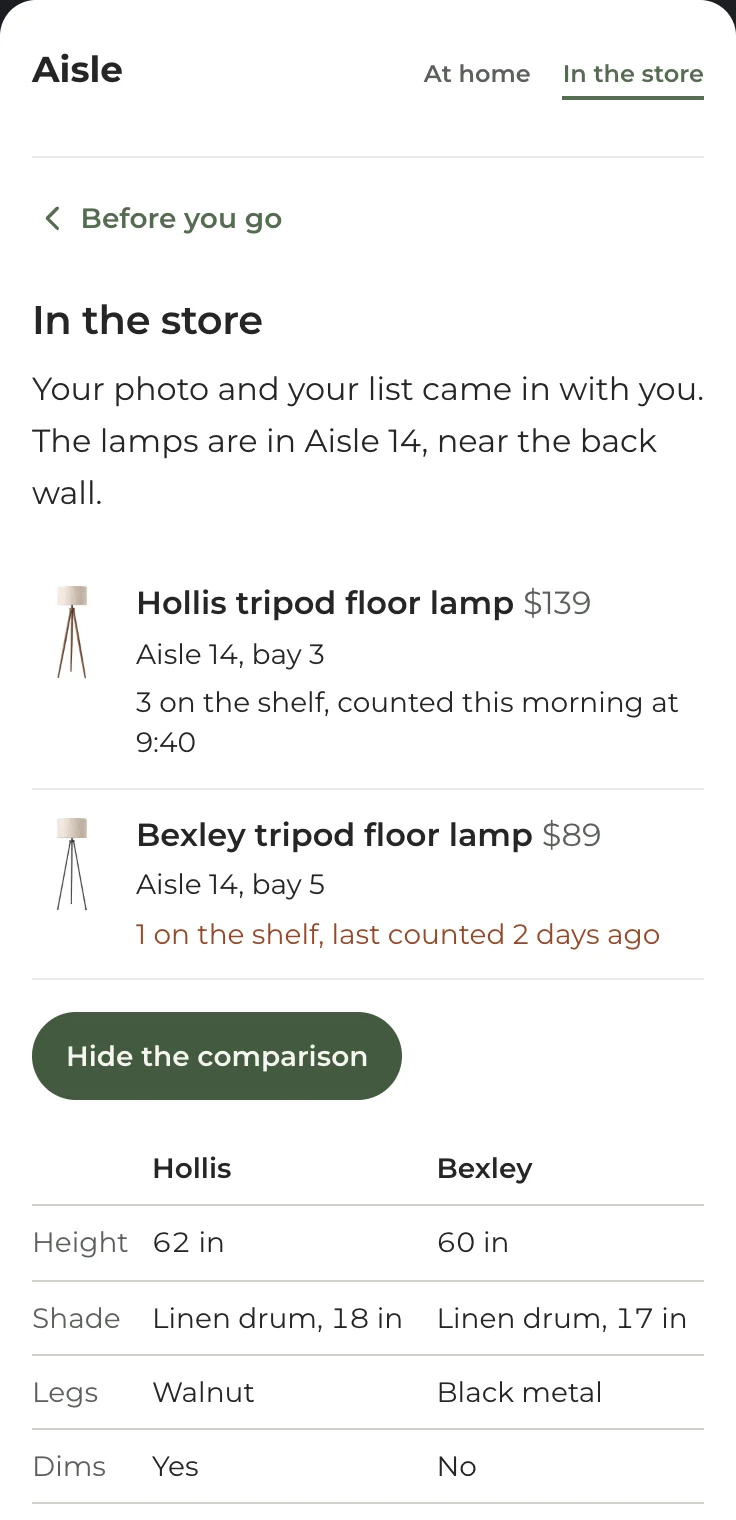
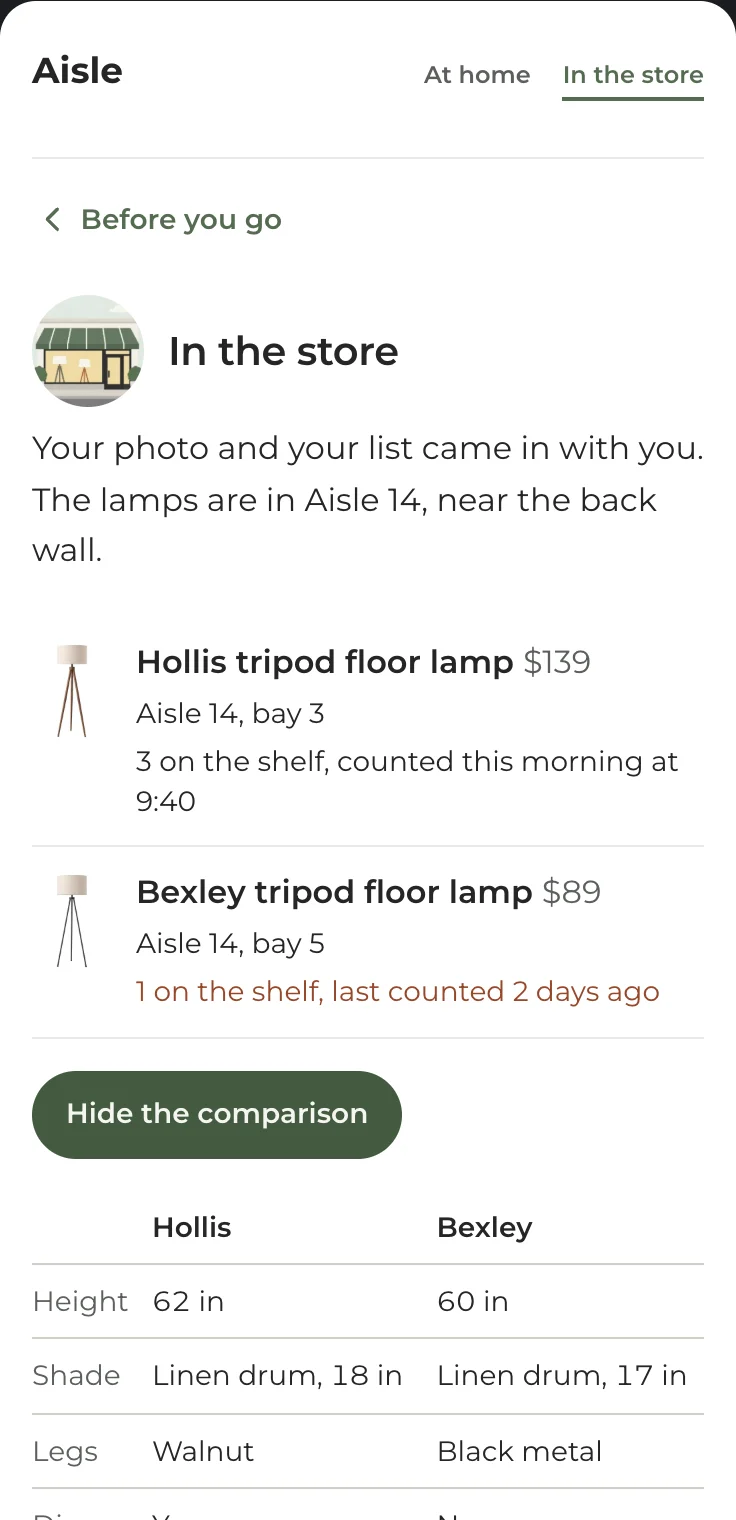
From Inspiration to Aisle: the prototype's two places carry a picture of the place. "At your friend's house" and "In the store" each open on a small drawing cut to a circle beside the title: a house at dusk with the lamp in its window, and a storefront with lamps in its window. Bold flat shapes, dra

diff --git a/prototype/aisle.js b/prototype/aisle.js
@@ -101,6 +101,15 @@
     return '<img class="ai-art" src="../img/lab/' + art + '?v=1" width="240" height="300" decoding="async" alt="">';
   }
 
+  /* ---------- the title's badge ----------
+     A small drawing in a circle beside the title on the two screens that
+     are a place: the friend's house and the store. Drawn in ChatGPT as one
+     sheet and cut by scripts/aisle-badges.mjs; alt="", the title is the text. */
+  function titled(kind, title) {
+    return '<div class="ai-head-row"><img class="ai-badge" src="../img/lab/aisle-badge-' + kind + '.webp?v=1" width="192" height="192" decoding="async" alt="">' +
+      '<h3 class="ai-title" tabindex="-1">' + title + '</h3></div>';
+  }
+
   /* ---------- small helpers ---------- */
 
   function dollars(n) { return '$' + n; }
@@ -124,7 +133,7 @@
   var screens = {};
 
   screens.home = function () {
-    return '<header class="ai-head">' + '<h3 class="ai-title" tabindex="-1">At your friend’s house</h3>' +
+    return '<header class="ai-head">' + titled('house', 'At your friend’s house') +
       '<p class="ai-dek">You like her lamp. Take a picture before you forget it.</p></header>' +
       '<figure class="ai-photo">' +
         '<div class="ai-photo-frame"><img class="ai-photo-img" src="../img/lab/aisle-maya-photo.webp?v=1" width="1200" height="900" decoding="async" alt="The lamp in your friend’s living room, lit, between a side table and the sofa."></div>' +
@@ -193,7 +202,7 @@
   screens.store = function () {
     var saved = savedLamps();
     var s = back('plan', 'Before you go') +
-      '<header class="ai-head"><h3 class="ai-title" tabindex="-1">In the store</h3>' +
+      '<header class="ai-head">' + titled('store', 'In the store') +
       '<p class="ai-dek">Your photo and your list came in with you. The lamps are in Aisle 14, near the back wall.</p></header>' +
       '<ul class="ai-saved">';
     saved.forEach(function (l) {

diff --git a/lab/inspiration-to-aisle.html b/lab/inspiration-to-aisle.html
@@ -223,7 +223,7 @@
         </div>
         <figure class="ia-hero-art">
         <figure class="ia-hero-art">
-          <div class="build-phone"><img src="../img/lab/aisle-arrive.webp?v=3" width="736" height="1124" fetchpriority="high" decoding="async"
+          <div class="build-phone"><img src="../img/lab/aisle-arrive.webp?v=4" width="736" height="1182" fetchpriority="high" decoding="async"
                alt="The prototype's In the store screen: your photo and your list came in with you, the lamps are in Aisle 14. The two saved lamps with their bays and shelf counts, one counted this morning and one last counted 2 days ago in the caution ink, and a button to compare them side by side." /></div>
         </figure>
       </div>
@@ -387,7 +387,7 @@
             <figcaption><strong>Before the trip.</strong> The counts, with their age.</figcaption>
           </figure>
           <figure>
-            <div class="build-phone"><img src="../img/lab/aisle-store.webp?v=3" width="736" height="1520" loading="lazy" decoding="async" alt="The In the store screen: the two saved lamps with their bays, a side-by-side comparison data table of height, shade, legs, dimming, bulb, price, and where, and two buttons: I don't see the Bexley, and Ask someone in Home." /></div>
+            <div class="build-phone"><img src="../img/lab/aisle-store.webp?v=4" width="736" height="1520" loading="lazy" decoding="async" alt="The In the store screen: the two saved lamps with their bays, a side-by-side comparison data table of height, shade, legs, dimming, bulb, price, and where, and two buttons: I don't see the Bexley, and Ask someone in Home." /></div>
             <figcaption><strong>In the aisle.</strong> The comparison, and a person one press away.</figcaption>
           </figure>
         </div>

diff --git a/prototype/aisle.html b/prototype/aisle.html
@@ -101,7 +101,7 @@
   <link rel="stylesheet" href="../site-nav.css?v=20261026a" />
   <link rel="stylesheet" href="../read-aloud.css?v=7" />
   <link rel="stylesheet" href="../related.css?v=2" />
-  <link rel="stylesheet" href="aisle.css?v=3" />
+  <link rel="stylesheet" href="aisle.css?v=4" />
   <script src="../site-nav.js?v=20260906a" defer></script>
   <!-- "Listen to this page" reads the writing around the prototype and not
        the prototype: the phone is marked data-read-aloud="skip", because its
@@ -110,7 +110,7 @@
   <script src="../read-aloud.js?v=4" defer></script>
   <!-- The prototype. Deferred, no dependencies, no build step; the lamps,
        the store and the counts are the objects at the top of the file. -->
-  <script src="aisle.js?v=4" defer></script>
+  <script src="aisle.js?v=5" defer></script>
   <!-- The header logo plays a one-shot reveal clip on load and fades out
        over the static mark as it finishes. The class is set here, before
        first paint, so the static mark never flashes ahead of the animation;

diff --git a/lab/index.html b/lab/index.html
@@ -300,7 +300,7 @@
                says so in its dek, as the page does in its first screen. -->
           <li class="writing-item">
             <a class="writing-link" href="inspiration-to-aisle.html">
-              <img class="writing-card" src="../img/lab/aisle-card.webp?v=5" width="1600" height="900" alt="" decoding="async" />
+              <img class="writing-card" src="../img/lab/aisle-card.webp?v=6" width="1600" height="900" alt="" decoding="async" />
               <div class="writing-text">
                 <h3 class="writing-title">From Inspiration to Aisle: one shopping trip, carried across phone, store, and person</h3>
                 <p class="writing-dek">A photo of a friend&rsquo;s lamp, four matches that say why, and a trip into a store with the context intact. An independent concept on sample data, not tested with shoppers yet.</p>

diff --git a/prototype/aisle.css b/prototype/aisle.css
@@ -130,6 +130,18 @@
    class-and-element and would otherwise set the app's lines at --text-lg
    on reading leading (the lesson dispatch-cockpit.css records). */
 .ai-app .ai-head { margin-bottom: var(--space-lg); }
+.ai-app .ai-head-row { display: flex; align-items: center; gap: var(--space-sm); margin-bottom: var(--space-xs); }
+.ai-app .ai-head-row .ai-title { margin: 0; }
+/* The badge is the place's drawing cut to a circle; 3.5rem is two 24px
+   lines of the title, so it sits level with a title that wraps. */
+.ai-app .ai-badge {
+  flex: none;
+  display: block;
+  width: 3.5rem;
+  height: 3.5rem;
+  border-radius: 50%;
+  object-fit: cover;
+}
 .ai-app .ai-title {
   margin: 0 0 var(--space-xs);
   font-family: var(--font-sans);

diff --git a/index.html b/index.html
@@ -999,7 +999,7 @@
                friend's and in the store, legible at half the section. -->
           <div class="case-card case-card--lab reveal">
             <a class="case-thumb case-thumb--ringed" href="lab/inspiration-to-aisle.html" aria-label="Read the Inspiration to Aisle case study: one shopping trip, from a friend&rsquo;s lamp to the store aisle">
-              <img decoding="async" loading="lazy" src="img/lab/aisle-card.webp?v=5" alt="" width="1600" height="900"/>
+              <img decoding="async" loading="lazy" src="img/lab/aisle-card.webp?v=6" alt="" width="1600" height="900"/>
             </a>
             <div class="case-card-body">
               <h3>One shopping trip, carried from a phone into the store.</h3>

diff --git a/case-study/this-site.html b/case-study/this-site.html
@@ -224,7 +224,7 @@
           <dl class="glance-facts">
             <div><dt>Role</dt><dd>Everything: the design, the code, the checks that hold them together</dd></div>
             <div><dt>Built with</dt><dd>HTML and CSS, Node scripts, and one Chrome that measures every page</dd></div>
-            <div><dt>Size</dt><dd>42 pages, 3 token files, 4 specs, 39 scripts</dd></div>
+            <div><dt>Size</dt><dd>42 pages, 3 token files, 4 specs, 40 scripts</dd></div>
             <div><dt>Status</dt><dd>Live. Every merge deploys; there is no staging in front of it</dd></div>
           </dl>
         </div>
